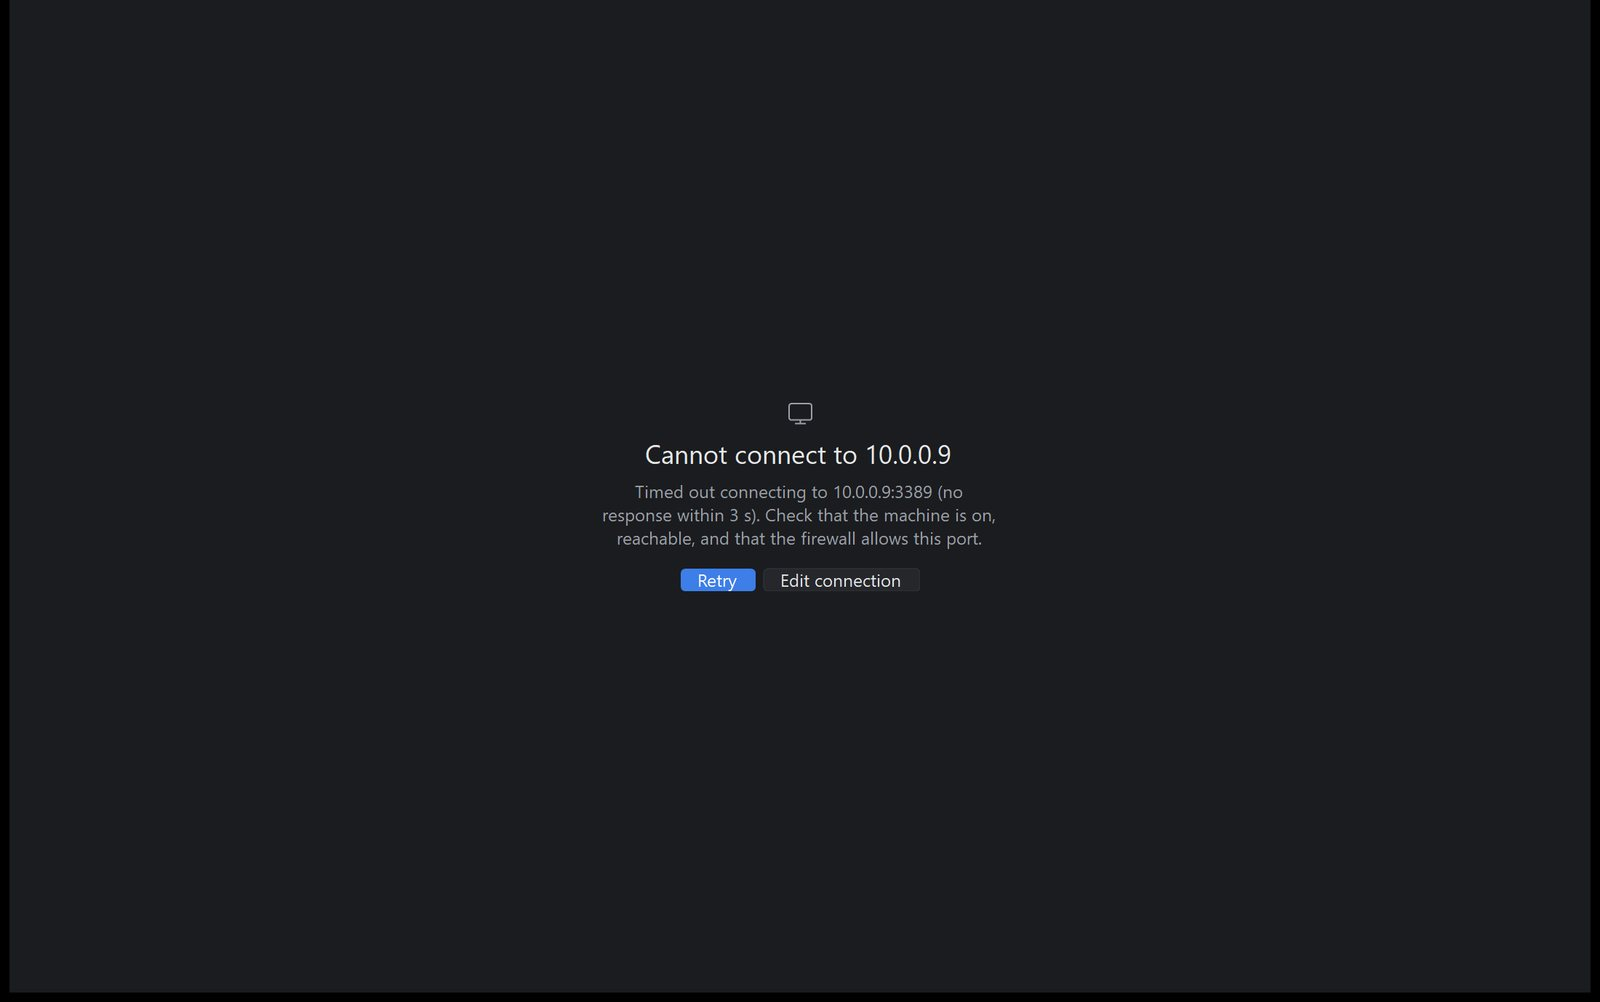
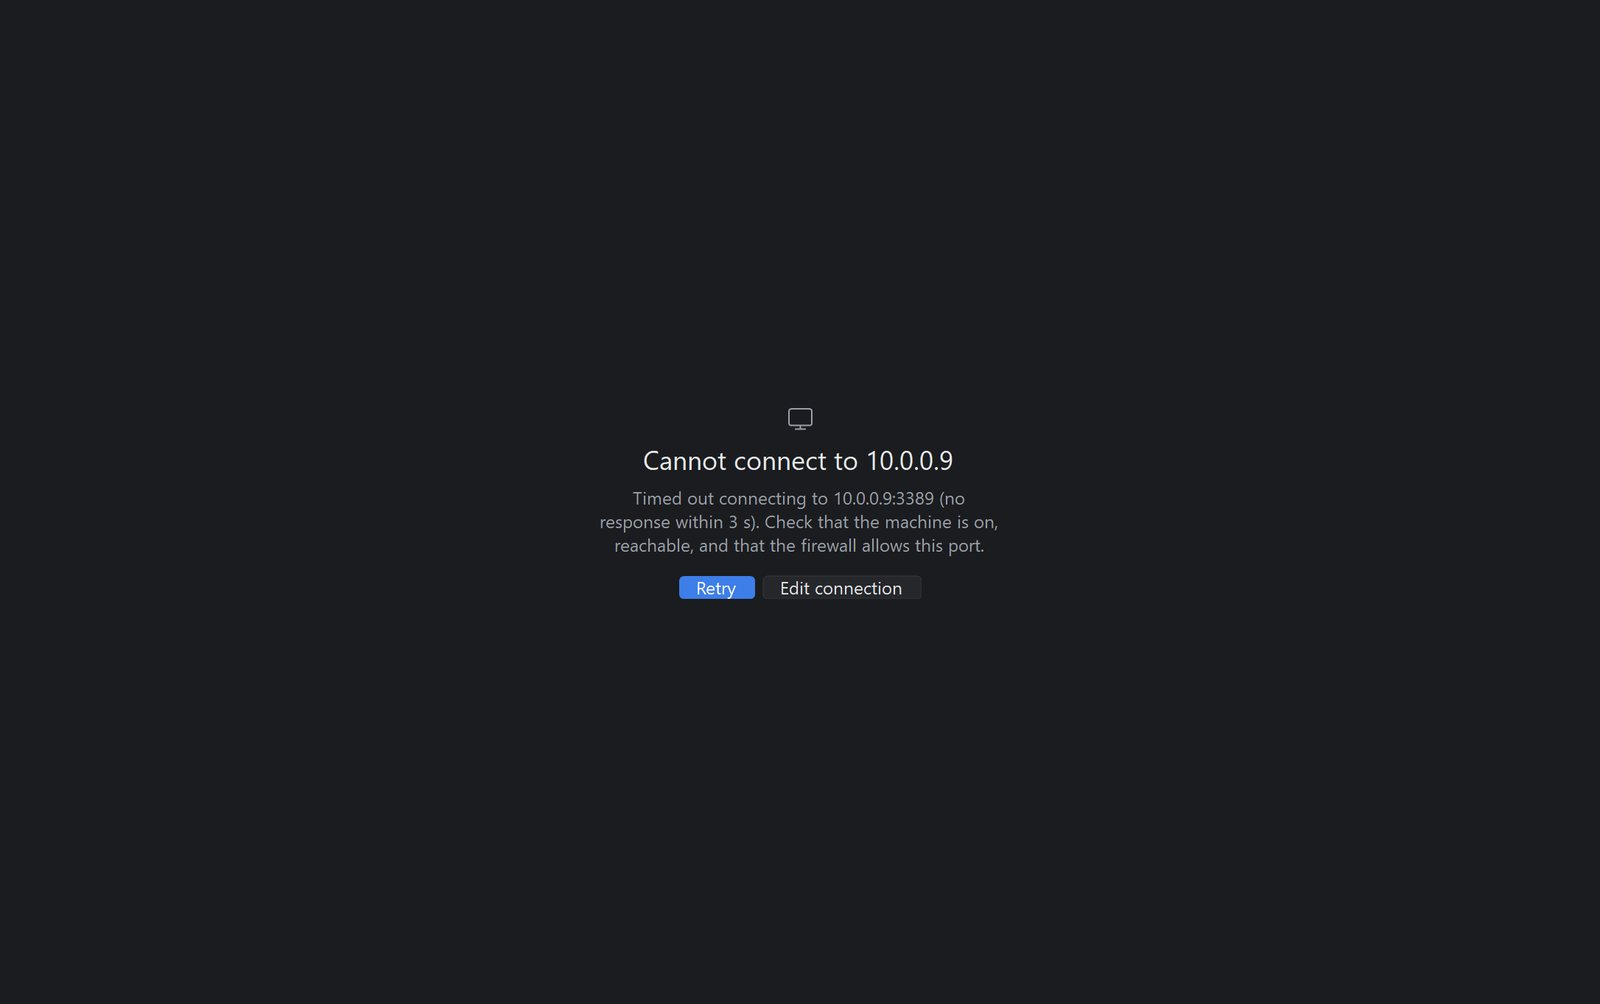
Crop the black frame off the site screenshots and trim both the site and the README
Assisted-by: Claude Opus 5 (1M context) <noreply@anthropic.com>

Changed region(s): [[0.0, 0.0, 1.0, 1.0], [0.375, 0.4331, 0.625, 0.6188]]

diff --git a/docs/index.html b/docs/index.html
@@ -78,8 +78,8 @@ h1 span{color:var(--accent-hi)}
 .plus:hover{background:var(--tab-hover); color:var(--text)}
 .sys{margin-left:auto; display:flex; align-self:flex-start; color:var(--dim)}
 .sys span{width:42px; height:34px; line-height:34px; text-align:center; font-size:12px}
-.screens{background:#000; line-height:0}
-.screens img{display:none; width:100%; height:auto; aspect-ratio:1600/1002}
+.screens{background:var(--frame); line-height:0}
+.screens img{display:none; width:100%; height:auto; aspect-ratio:1600/1004}
 /* the only interactive machinery on the page */
 #t1:checked ~ .win .screens .s1,
 #t2:checked ~ .win .screens .s2,
@@ -99,9 +99,6 @@ h2{font-size:13px; letter-spacing:.14em; text-transform:uppercase; color:var(--d
 .cell{background:var(--card); border:1px solid var(--border); border-radius:10px; padding:20px}
 .cell h3{margin:0 0 7px; font-size:16px; font-weight:600}
 .cell p{margin:0; color:var(--dim); font-size:14.5px; line-height:1.55}
-dl{margin:0; display:grid; grid-template-columns:auto 1fr; gap:10px 22px; font-size:14.5px}
-dt{color:var(--dim)}
-dd{margin:0}
 code{
   font-family:"Cascadia Mono",Consolas,ui-monospace,monospace; font-size:13px;
   background:var(--panel); border:1px solid var(--border); border-radius:5px; padding:1px 6px;
@@ -160,11 +157,11 @@ footer code{font-size:11.5px; word-break:break-all}
       <span class="sys" aria-hidden="true"><span>&#8212;</span><span>&#9723;</span><span>&#10005;</span></span>
     </div>
     <div class="screens">
-      <img class="s1" src="site-session.jpg" width="1600" height="1002" decoding="async"
+      <img class="s1" src="site-session.jpg" width="1600" height="1004" decoding="async"
            alt="A connected Windows session filling the window below the tab strip">
-      <img class="s2" src="site-newtab.jpg" width="1600" height="1002" loading="lazy" decoding="async"
+      <img class="s2" src="site-newtab.jpg" width="1600" height="1004" loading="lazy" decoding="async"
            alt="The new connection page with a quick-connect box, saved connections and recent connections">
-      <img class="s3" src="site-error.jpg" width="1600" height="1002" loading="lazy" decoding="async"
+      <img class="s3" src="site-error.jpg" width="1600" height="1004" loading="lazy" decoding="async"
            alt="A failed connection showing why it failed, with Retry and Edit connection buttons">
     </div>
   </div>
@@ -193,22 +190,6 @@ footer code{font-size:11.5px; word-break:break-all}
   </div>
 </section>
 
-<section>
-  <h2>Before you download</h2>
-  <dl>
-    <dt>Requires</dt>
-    <dd>Windows 10 or 11. .NET Framework 4.8 is already part of both.</dd>
-    <dt>SmartScreen</dt>
-    <dd>The binary is not code-signed, so the first run shows "Windows protected your PC" →
-        <em>More info</em> → <em>Run anyway</em>.</dd>
-    <dt>Verify it</dt>
-    <dd><code>certutil -hashfile RdpTabs.exe SHA256</code> — the expected value is in the
-        <a href="https://github.com/yzhou79/RdpTabs/releases/latest">release notes</a>.</dd>
-    <dt>Not in v1.0.0</dt>
-    <dd>No full screen, no Ctrl+Alt+Del, no tearing a tab into its own window, and local shortcuts sleep
-        while the remote session holds the keyboard.</dd>
-  </dl>
-</section>
 
 <footer>
   <span>RdpTabs v1.0.0 · <a href="https://github.com/yzhou79/RdpTabs">GitHub</a> ·

diff --git a/README.md b/README.md
@@ -6,11 +6,6 @@ replaces the shell: a Chrome-style tab strip on top, `+` for a new connection, o
 
 ![Two sessions in tabs, the first one active](docs/tabs.jpg)
 
-Every tab carries a status dot — grey = idle, amber spinner = connecting, green = connected, red = failed or
-disconnected:
-
-![Tabs in different states](docs/tab-strip.png)
-
 `+` opens a new connection page with quick connect, your saved connections and the recent ones. The theme
 (system / dark / light) is switched at the bottom of that page and applied without a restart:
 
